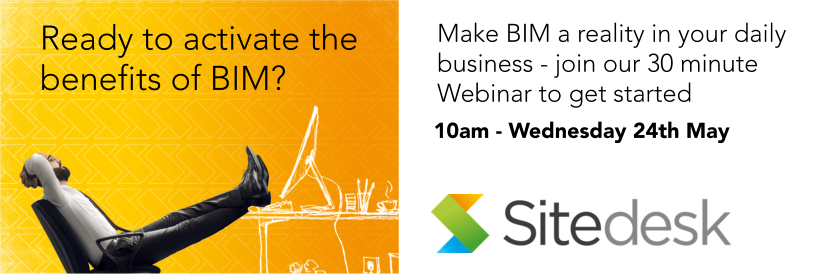
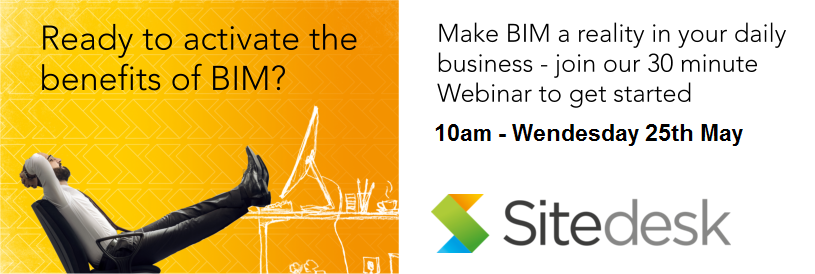
Corrected seminar date

Changed region(s): [[0.5215, 0.438, 0.9202, 0.5255]]

diff --git a/bim-seminars/index.md b/bim-seminars/index.md
@@ -23,7 +23,7 @@ layout: page
 <div class='medium-8 large-8 columns'>
   <h2>BIM Webinars</h2>
   
-  <h3>Compliance and confidence: How to Activate the Benefits of BIM - 10am, Wednesday 24th May 2016</h3>
+  <h3>Compliance and confidence: How to Activate the Benefits of BIM - 10am, Wednesday 25th May 2016</h3>
   
   <p>BIM is an active reality for contractors in the public sector space – and both a growing challenge and opportunity for those who work in the private sector too.</p>
   <p>Join Sitedesk for a lively UK BIM webinar presentation and:</p>

diff --git a/_events/2016-05-06-compliance-and-confidence.md b/_events/2016-05-06-compliance-and-confidence.md
@@ -26,6 +26,6 @@ Join Sitedesk’s Director of BIM, Rob Umphray and Chairman, Michael McCullen, t
 <a href="http://www.eventbrite.co.uk/e/bim-compliance-confidence-how-to-activate-the-benefits-of-bim-tickets-25162204832?ref=ebtnebregn" target="_blank"><img src="https://www.eventbrite.co.uk/custombutton?eid=25162204832" alt="Eventbrite - BIM Compliance &amp; confidence: How to Activate the Benefits of BIM" /></a>
 
 
-**When:** 10am, Wednesday 24th May 
+**When:** 10am, Wednesday 25th May 
 
 **Where:** Webinar
